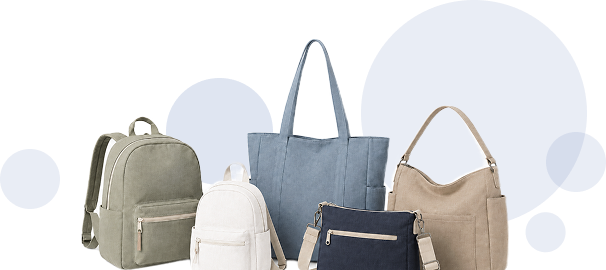
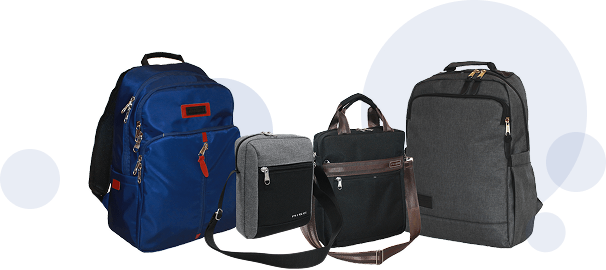
Меняем фоновую картинку в блоке благодарностей

diff --git a/local/templates/rise-bags/_dist/components/bitrix/news.list/thanks-list/style.Dcv9V8Ox.css b/local/templates/rise-bags/_dist/components/bitrix/news.list/thanks-list/style.Dcv9V8Ox.css
@@ -1,0 +1,1 @@
+.thanks{container:thanks/inline-size}.thanks .grid{display:flex;flex-direction:column;gap:var(--base-gap)}@container thanks (min-width: 790px){.thanks .grid{flex-direction:row}}.thanks .grid__item{position:relative;border:1px solid var(--gray-800);border-radius:10px;flex:1 1 0;min-width:0}.thanks .grid__item--yandex{max-width:760px}.thanks .grid__item--yandex a{font-size:12px;border:2px solid var(--gray-500);border-radius:4px;padding:8px 20px;max-width:400px;text-align:center;left:50%;transform:translate(-50%);width:calc(100% - 20px)}.thanks .grid__item--gallery{background:url(/local/templates/rise-bags/_dist/components/bitrix/news.list/thanks-list/_src/images/circles-bg.png) bottom 20px center/85% no-repeat,url(/local/templates/rise-bags/_dist/components/bitrix/news.list/thanks-list/_src/images/bags-bg.png) bottom center/52% no-repeat,var(--gray-800);padding:20px 30px clamp(80px,20vw,150px)}.thanks iframe{width:100%;height:100%;min-height:620px}.thanks .gallery-item{background-color:var(--white)}.thanks .heading--lg{font-weight:700;color:var(--primary)}

diff --git a/local/templates/rise-bags/components/bitrix/news.list/thanks-list/_src/scss/index.scss b/local/templates/rise-bags/components/bitrix/news.list/thanks-list/_src/scss/index.scss
@@ -35,11 +35,15 @@
 			}
 
 			&--gallery {
-				background-color: var(--gray-800);
-				background-image: url("../images/thanks-bg.png");
-				background-repeat: no-repeat;
-				background-position: center bottom;
-				background-size: 80%;
+				background:
+					url("../images/circles-bg.png") bottom 20px center / 85% no-repeat,
+					url("../images/bags-bg.png") bottom center / 52% no-repeat,
+					var(--gray-800);
+				// background-color: var(--gray-800);
+				// background-image: url("../images/thanks-bg.png");
+				// background-repeat: no-repeat;
+				// background-position: center bottom;
+				// background-size: 80%;
 				padding: 20px 30px clamp(80px, 20vw, 150px);
 			}
 		}
